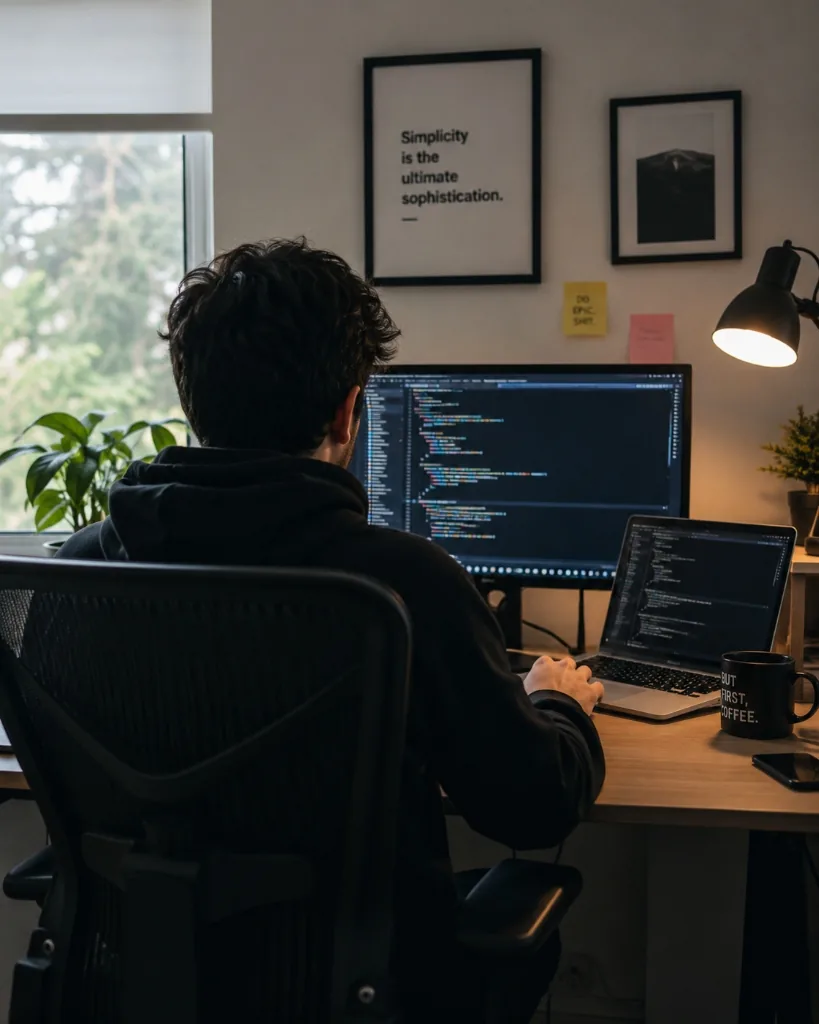
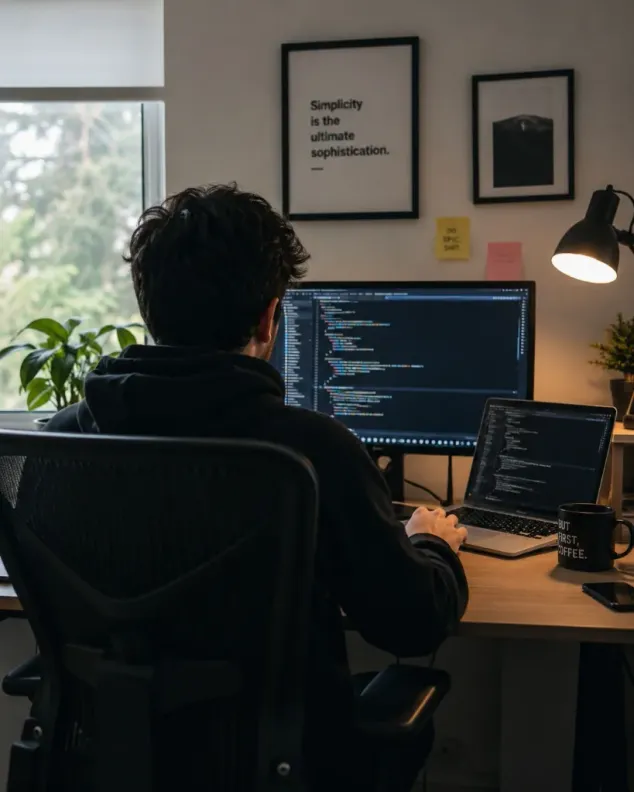
perf(pagespeed): eliminate font render-blocking, resolve footer CLS, optimize LCP image, and remove ipapi 3rd-party request

diff --git a/src/components/Pricing.jsx b/src/components/Pricing.jsx
@@ -1,4 +1,4 @@
-import React, { useState, useEffect } from 'react';
+import React, { useState } from 'react';
 import { motion, AnimatePresence } from 'framer-motion';
 import { Check, ChevronDown, Sparkles } from 'lucide-react';
 
@@ -64,34 +64,28 @@ const plans = [
   },
 ];
 
+const detectDefaultCurrency = () => {
+  try {
+    const tz = typeof Intl !== 'undefined' ? (Intl.DateTimeFormat().resolvedOptions().timeZone || '') : '';
+    const lang = typeof navigator !== 'undefined' ? (navigator.language || '') : '';
+    if (tz.includes('Calcutta') || tz.includes('Kolkata') || tz.includes('Asia/Colombo') || lang === 'en-IN') {
+      return 'INR';
+    }
+    if (tz.includes('London') || lang === 'en-GB') {
+      return 'GBP';
+    }
+    if (tz.startsWith('Europe/')) {
+      return 'EUR';
+    }
+    return 'USD';
+  } catch {
+    return 'USD';
+  }
+};
+
 export default function Pricing() {
-  const [currency, setCurrency] = useState('USD');
+  const [currency, setCurrency] = useState(detectDefaultCurrency);
   const [isDropdownOpen, setIsDropdownOpen] = useState(false);
-
-  // Detect user location for currency
-  useEffect(() => {
-    const fetchLocation = async () => {
-      try {
-        const response = await fetch('https://ipapi.co/json/');
-        const data = await response.json();
-        
-        // Map country to currency
-        if (data.country_code === 'IN') {
-          setCurrency('INR');
-        } else if (['GB'].includes(data.country_code)) {
-          setCurrency('GBP');
-        } else if (['AT','BE','CY','EE','FI','FR','DE','GR','IE','IT','LV','LT','LU','MT','NL','PT','SK','SI','ES'].includes(data.country_code)) {
-          setCurrency('EUR');
-        } else {
-          setCurrency('USD'); // Default
-        }
-      } catch (error) {
-        console.error('Failed to fetch location:', error);
-      }
-    };
-
-    fetchLocation();
-  }, []);
 
   const handleCurrencySelect = (code) => {
     setCurrency(code);

diff --git a/index.html b/index.html
@@ -94,10 +94,14 @@
       }
     </script>
 
-    <!-- Font Optimization with Preconnect -->
+    <!-- Font Optimization with Preconnect and Non-render-blocking preload -->
     <link rel="preconnect" href="https://fonts.googleapis.com" />
     <link rel="preconnect" href="https://fonts.gstatic.com" crossorigin />
-    <link href="https://fonts.googleapis.com/css2?family=Inter:wght@400;500;600;700&family=Space+Grotesk:wght@500;700;800&display=swap" rel="stylesheet" />
+    <link rel="preload" as="style" href="https://fonts.googleapis.com/css2?family=Inter:wght@400;500;600;700&family=Space+Grotesk:wght@500;700;800&display=swap" />
+    <link href="https://fonts.googleapis.com/css2?family=Inter:wght@400;500;600;700&family=Space+Grotesk:wght@500;700;800&display=swap" rel="stylesheet" media="print" onload="this.media='all'" />
+    <noscript>
+      <link href="https://fonts.googleapis.com/css2?family=Inter:wght@400;500;600;700&family=Space+Grotesk:wght@500;700;800&display=swap" rel="stylesheet" />
+    </noscript>
   </head>
   <body>
     <div id="root"></div>

diff --git a/src/App.jsx b/src/App.jsx
@@ -4,8 +4,9 @@ import Navbar from './components/Navbar';
 import Footer from './components/Footer';
 import ScrollToTop from './components/ScrollToTop';
 
-// Lazy-loaded pages for optimal bundle splitting
-const HomePage = lazy(() => import('./pages/HomePage'));
+import HomePage from './pages/HomePage';
+
+// Lazy-loaded secondary pages for optimal bundle splitting
 const ServicesPage = lazy(() => import('./pages/ServicesPage'));
 const PortfolioPage = lazy(() => import('./pages/PortfolioPage'));
 const CategoryPage = lazy(() => import('./pages/CategoryPage'));

diff --git a/src/components/About.jsx b/src/components/About.jsx
@@ -41,7 +41,8 @@ export default function About() {
               <img
                 src={heroImg}
                 alt="Dynamic Designing — The Architect of Digital Luxury"
-                loading="lazy"
+                fetchpriority="high"
+                loading="eager"
                 decoding="async"
                 width="460"
                 height="575"
